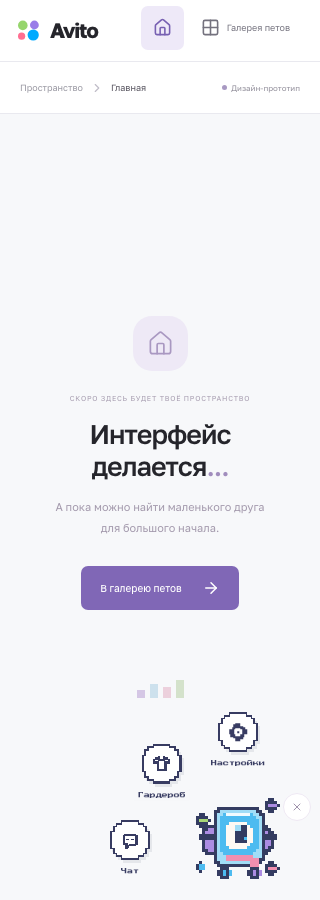
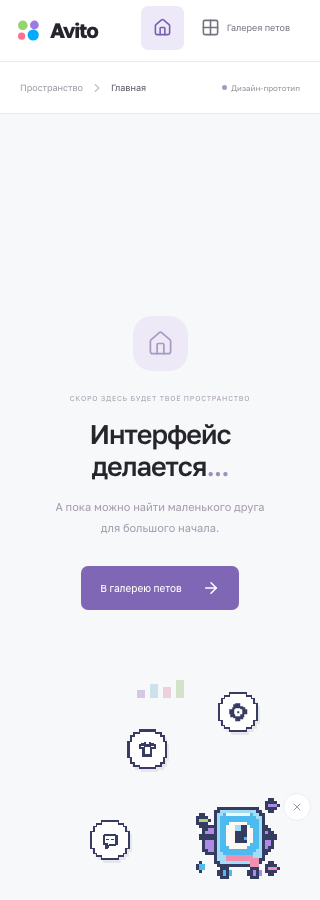
Remove action captions and expand the companion orbit

Changed region(s): [[0.2812, 0.8089, 0.5938, 0.9956], [0.6562, 0.7778, 0.8125, 0.8711]]

diff --git a/frontend/src/widgets/pet-companion/ui/companion-orbit-menu.tsx b/frontend/src/widgets/pet-companion/ui/companion-orbit-menu.tsx
@@ -31,12 +31,12 @@ export function CompanionOrbitMenu({ anchor, position, open, onAction }: {
       aria-hidden={!open} inert={!open || !interactive}>
       {orbit && actions.map((action, index) => (
         <button key={action.id} type="button" aria-label={action.label} onClick={() => onAction(action.id)}
-          className={`orbit-action fixed z-38 flex flex-col items-center gap-[5px] bg-transparent p-0 text-[#383c62]
+          className={`orbit-action fixed z-38 flex items-center justify-center bg-transparent p-0 text-[#383c62]
             outline-none [transition:transform_280ms_cubic-bezier(.22,1,.36,1),opacity_180ms_ease]
             motion-reduce:transition-none hover:[&_svg.orbit-disc]:brightness-105
             focus-visible:[&_.orbit-disc]:drop-shadow-[0_0_3px_#00aaff]
             ${open ? "opacity-100" : "pointer-events-none opacity-0"}`}
-          style={{ left: orbit.origin.x - 4, top: orbit.origin.y, width: orbit.size + 8,
+          style={{ left: orbit.origin.x - 4, top: orbit.origin.y - 4, width: orbit.size + 8, height: orbit.size + 8,
             transform: open ? `translate(${orbit.offsets[index].x}px, ${orbit.offsets[index].y}px) scale(1)` : "translate(0, 0) scale(.35)",
             transitionDelay: open ? `${index * 40}ms` : `${(2 - index) * 20}ms`,
           }}>
@@ -47,9 +47,6 @@ export function CompanionOrbitMenu({ anchor, position, open, onAction }: {
               <path d={outline} transform="translate(3 3) scale(.892857)" fill="#ffffff" />
             </svg>
             <span className="relative"><PixelActionIcon action={action.id} /></span>
-          </span>
-          <span className="whitespace-nowrap bg-[#f7f8fa]/95 px-1 py-[2px] font-pixel text-[7px] leading-[1.4] max-sm:text-[6px]">
-            {action.label}
           </span>
         </button>
       ))}

diff --git a/frontend/src/widgets/pet-companion/model/use-orbit-placement.ts b/frontend/src/widgets/pet-companion/model/use-orbit-placement.ts
@@ -15,7 +15,7 @@ export function useOrbitPlacement(
       const box = anchor.current.getBoundingClientRect();
       const compact = window.innerWidth <= 650;
       const size = compact ? 40 : 44;
-      const radius = compact ? 108 : 120;
+      const radius = compact ? 128 : 140;
       const cx = box.left + box.width / 2;
       const cy = box.top + box.height / 2;
       const horizontal = cx >= window.innerWidth / 2 ? -1 : 1;

diff --git a/CONTEXT.md b/CONTEXT.md
@@ -274,3 +274,10 @@
 - По запросу пользователя все три кружка получили белую заливку вместо голубой/сиреневой/розовой. Тёмный пиксельный контур, иконки, подписи и компактный размер сохранены.
 - Радиус дуги увеличен на 16 px: со 104/92 до 120/108 px (десктоп/телефон), чтобы меню было немного дальше от пета.
 - Проверки: Next build и существующий Playwright-сценарий меню на 1440/390/320 px, включая сохранённое положение, перезагрузку, жесты и края экрана; скриншоты orbit-menu-* обновлены.
+
+
+### 2026-11-11 — Агент: Codex — Меню без подписей и дальше от пета
+
+- По запросу пользователя удалены видимые подписи кружков; доступные имена действий через aria-label сохранены. Радиус увеличен ещё на 20 px — до 140/128 px (десктоп/телефон).
+- Кнопки центрируют белый пиксельный рисунок в областях нажатия 52×52 и 48×48 px; размер самих кружков остался 44/40 px. Анимация, действия и жесты сохранены.
+- Проверки: Next build, Playwright-сценарий меню на 1440/390/320 px, сохранённая позиция и reload, одиночные/двойные активации, действия, drag и reduced motion. Скриншоты orbit-menu-* обновлены.
